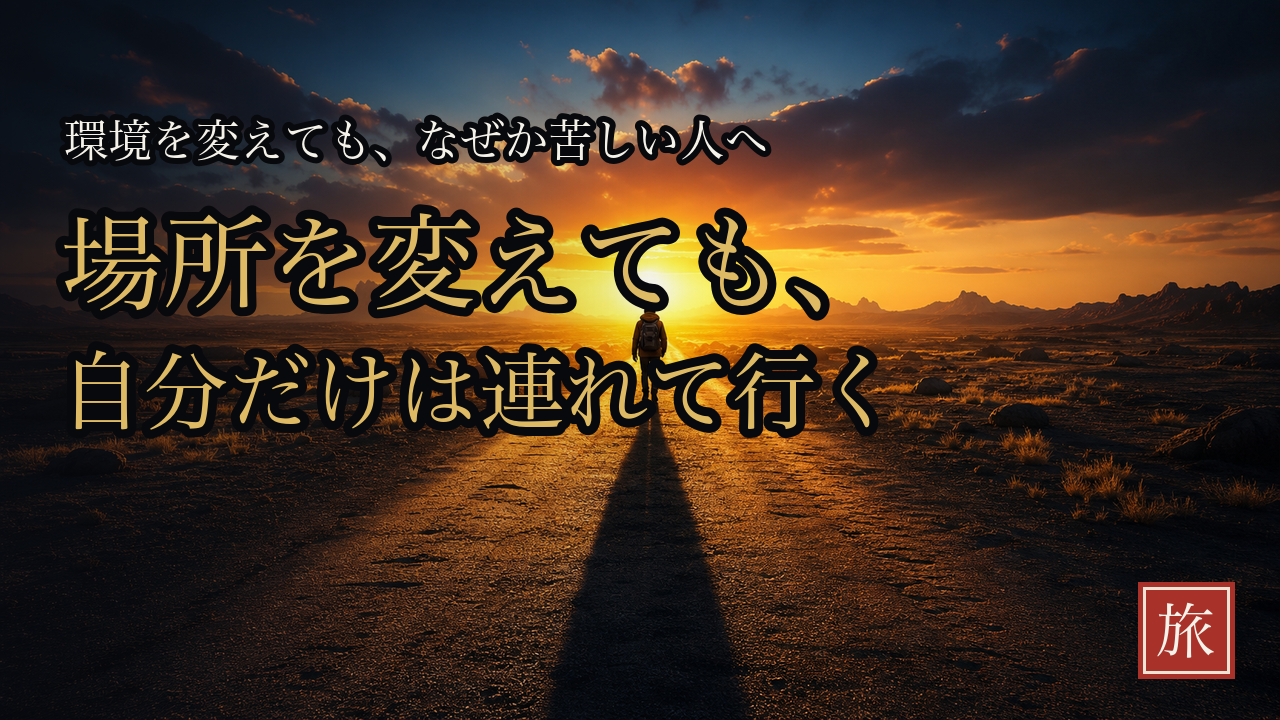
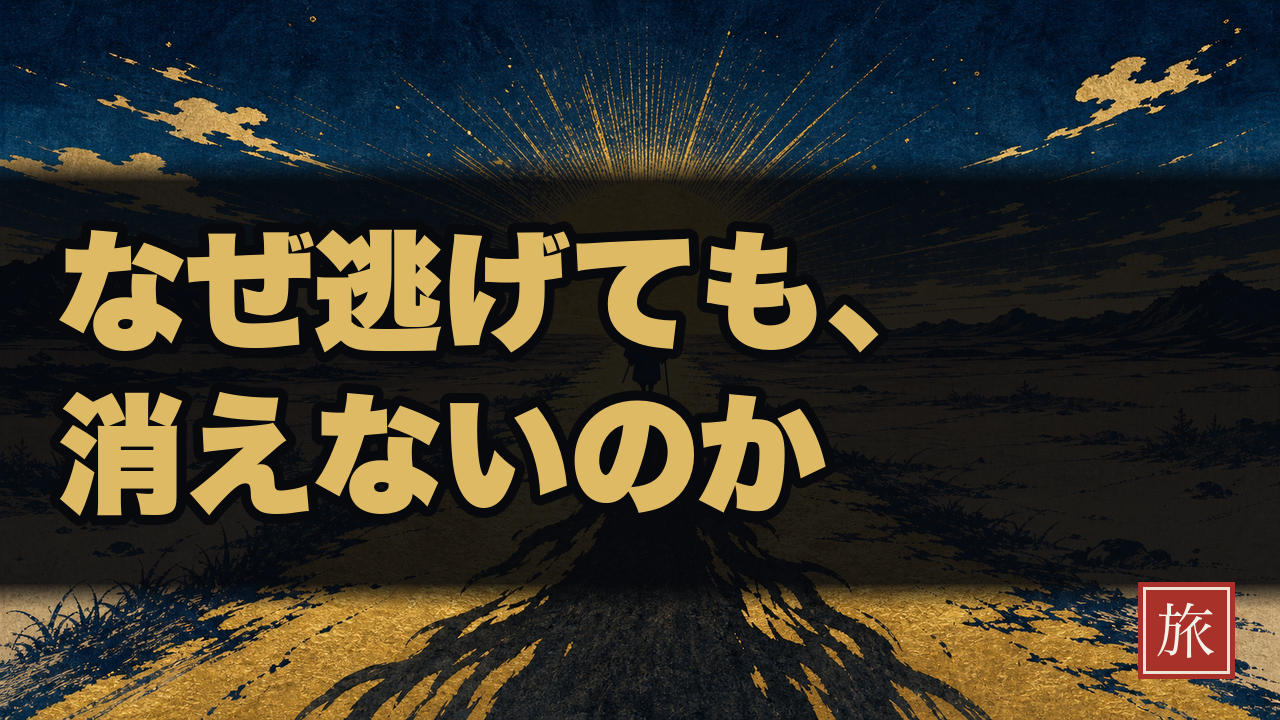
share: ep34-thumb (phone)

diff --git a/ep34-thumb/index.html b/ep34-thumb/index.html
@@ -4,62 +4,87 @@
 <meta charset="UTF-8">
 <meta name="viewport" content="width=device-width, initial-scale=1.0">
 <meta name="robots" content="noindex">
-<title>第34話 サムネ（新方式・洞察型）</title>
+<title>第34話 サムネ最終判断（洞察型・ハーネス90点通過）</title>
 <style>
-  :root{--bg:#faf7f0;--ink:#1f2430;--sub:#5b6472;--line:#e4ddcd;--card:#fff;--accent:#e8662a;--ok:#e3f3e6;}
+  :root{--bg:#faf7f0;--ink:#1f2430;--sub:#5b6472;--line:#e4ddcd;--card:#fff;--accent:#c8862a;--ok:#e3f3e6;--warn:#fbeede;}
   *{box-sizing:border-box}
   body{margin:0;background:var(--bg);color:var(--ink);font-family:-apple-system,BlinkMacSystemFont,"Hiragino Sans","Yu Gothic",sans-serif;line-height:1.7}
-  .wrap{max-width:680px;margin:0 auto;padding:20px 15px 70px}
-  .kicker{font-size:12px;letter-spacing:.15em;color:var(--accent);font-weight:700}
-  h1{font-size:20px;margin:.25em 0 .12em;line-height:1.35}
-  .lede{color:var(--sub);font-size:14px;margin:0 0 12px}
-  figure{margin:12px 0;border:1px solid var(--line);border-radius:12px;overflow:hidden;background:#111}
+  .wrap{max-width:680px;margin:0 auto;padding:20px 15px 80px}
+  .kicker{font-size:12px;letter-spacing:.14em;color:var(--accent);font-weight:800}
+  h1{font-size:20px;margin:.25em 0 .1em;line-height:1.35}
+  .lede{color:var(--sub);font-size:14px;margin:0 0 14px}
+  figure{margin:14px 0;border:1px solid var(--line);border-radius:12px;overflow:hidden;background:#111}
   figure img{display:block;width:100%}
-  figcaption{font-size:12px;color:var(--sub);padding:7px 12px;background:#fffdf7}
-  .box{background:var(--ok);border:1px solid #bfe0c6;border-radius:12px;padding:12px 14px;margin:14px 0;font-size:13.5px}
-  .decide{background:#fff;border:2px dashed var(--accent);border-radius:14px;padding:15px 17px;margin:18px 0}
+  figcaption{font-size:13px;color:#3a4150;padding:9px 13px;background:#fffdf7}
+  .tag{display:inline-block;font-size:11px;font-weight:800;padding:2px 8px;border-radius:20px;margin-right:6px;vertical-align:middle}
+  .pass{background:#dff3e2;color:#1f7a3a}.mid{background:#fdeede;color:#9a5a12}
+  .box{background:var(--ok);border:1px solid #bfe0c6;border-radius:12px;padding:12px 14px;margin:16px 0;font-size:13.5px}
+  .warn{background:var(--warn);border:1px solid #eccfa0;border-radius:12px;padding:12px 14px;margin:16px 0;font-size:13.5px}
+  h2{font-size:15.5px;border-bottom:2px solid var(--line);padding-bottom:5px;margin:26px 0 10px}
+  table{width:100%;border-collapse:collapse;font-size:12.5px;margin:8px 0}
+  th,td{border:1px solid var(--line);padding:6px 8px;text-align:left}
+  th{background:#f3ecdb}
+  .decide{background:#fff;border:2px dashed var(--accent);border-radius:14px;padding:15px 17px;margin:22px 0}
   .decide h2{border:none;margin:0 0 8px;color:var(--accent);font-size:16px}
-  .opt{padding:6px 0;border-bottom:1px dashed var(--line);font-size:14.5px}
-  .opt:last-child{border-bottom:none}.opt .k{color:var(--accent);font-weight:800;margin-right:7px}
+  .opt{padding:8px 0;border-bottom:1px dashed var(--line);font-size:14.5px}
+  .opt:last-child{border-bottom:none}.opt .k{color:var(--accent);font-weight:900;margin-right:8px;font-size:16px}
+  .rec{background:#eef7ef;border-radius:8px}
   .small{font-size:12px;color:var(--sub)}
-  .ref{max-width:340px;border-radius:8px;border:1px solid var(--line);display:block;margin:6px 0}
+  code{background:#efe9db;padding:1px 5px;border-radius:4px;font-size:12px}
 </style>
 </head>
 <body>
 <div class="wrap">
-  <div class="kicker">第34話 サムネ ・ 新方式（三井寿ライブテスト型）</div>
-  <h1>洞察型サムネ A/B — 旧tierAは廃棄</h1>
-  <p class="lede">ご指摘の新ハーネス＝三井寿でライブテスト中の型（シネマ比喩背景＋読み替えステートメント＋卦バッジ・作品名タグなし）を特定し、<code>make-thumbnail-insight.py</code>としてハーネス化。ep34を同型で作りました。</p>
+  <div class="kicker">第34話 HUNTER×HUNTER × 旅 ・ サムネ最終判断</div>
+  <h1>洞察型サムネ — 独立ハーネスで90点通過（作品名タグ版）</h1>
+  <p class="lede">新設した洞察型ハーネス <code>make-thumbnail-insight.py</code>（シネマ比喩背景＋読み替えステートメント＋卦バッジ）で制作。<b>文脈ゼロの独立採点</b>（<code>analytics/eval-schemas/thumbnail.json</code>・閾値90）にかけ、作品名タグ版が<b>90点で通過</b>しました。背景＝夜明けの一本道・地平の旅人・<b>手前に伸びる長い影＝ついてくる自分</b>を専用生成した現代浮世絵。</p>
 
-  <div class="box">
-    <b>参考＝三井寿ライブ（今テスト中の実物）：</b><br>
-    <img class="ref" src="images/ref_mitsui.jpg" alt="三井寿ライブサムネ">
-    小見出し「どん底から戻れる人の共通点」＋特大「復活は、地中で始まる」＋卦バッジ。この文法に合わせています。
+  <div class="warn">
+    <b>💡 今回の発見（ハーネス整合の不具合を1つ直しました）：</b><br>
+    採点ルーブリック <code>thumbnail.json</code> は旧Tier A用で、「固有名詞が無いと <code>curiosity_gap</code> 減点」という基準を持ちます。純・洞察型（三井寿と同じ作品名なし）はこの基準に構造的に引っかかり<b>80点で頭打ち</b>でした。<br>
+    → チャンネルの成長戦略SSOT（<code>growth-1000-strategy.md</code>「作品名先出しが無名chの唯一効くレバー」）に沿って<b>作品名タグを小さく載せる</b>ことで、洞察が主役のまま固有名詞要件も満たし<b>90点</b>に。タイトルも既に「キルアは家を出ても…」と作品名先出しなので一貫します。
   </div>
 
   <figure>
-    <img src="images/A.png" alt="A 好奇心ギャップ">
-    <figcaption><b>A（好奇心ギャップ）</b>：小見出し「環境を変えても、なぜか苦しい人へ」＋「<b>逃げた先に、先回りしているもの</b>」— 何が?の空白で引く</figcaption>
+    <img src="images/C.png" alt="C 作品名タグあり">
+    <figcaption><span class="tag pass">90点 PASS</span><b>C：作品名タグあり</b>（左上 HUNTER×HUNTER ＋「なぜ逃げても、消えないのか」）— 戦略◎・推奨</figcaption>
   </figure>
-
   <figure>
-    <img src="images/B.png" alt="B 損失フレーム">
-    <figcaption><b>B（損失フレーム）</b>：同じ小見出し＋「<b>場所を変えても、自分だけは連れて行く</b>」— 損失の言い切りで刺す</figcaption>
+    <img src="images/B.png" alt="B タグなし損失">
+    <figcaption><span class="tag mid">80点</span><b>B：タグなし・損失フレーム</b>（三井寿と同型の純・洞察）— Cと背景/コピー同一、タグ有無だけ違う</figcaption>
+  </figure>
+  <figure>
+    <img src="images/A.png" alt="A タグなし好奇心">
+    <figcaption><span class="tag mid">~80点</span><b>A：タグなし・好奇心</b>（「逃げた先で、待つのは誰か」）— コピー違いの別案</figcaption>
   </figure>
 
+  <h2>実寸フィード確認（360px / 180px）</h2>
   <figure>
     <img src="images/mock.png" alt="実寸モック">
-    <figcaption>実寸モック（240px / 180px）— どちらも読めることを確認済み。背景＝夜明けの一本道・リュックの旅人・<b>手前に伸びる人型の影（＝ついてくる自分）</b>を専用生成。</figcaption>
+    <figcaption>3案とも180pxで題字が読めることを確認済み。Cのタグも小サイズで潰れず判読可。</figcaption>
   </figure>
+
+  <h2>独立採点の内訳（Cが最強な理由）</h2>
+  <table>
+    <tr><th>観点(配点)</th><th>C タグあり</th><th>B タグなし</th></tr>
+    <tr><td>可読性360px(30)</td><td>28</td><td>27</td></tr>
+    <tr><td>一点集中(20)</td><td>16</td><td>16</td></tr>
+    <tr><td>明るさ対比(15)</td><td>14</td><td>12</td></tr>
+    <tr><td>好奇心ギャップ(15)</td><td>14</td><td>9 ※固有名詞なし</td></tr>
+    <tr><td>約束回収(10)</td><td>8</td><td>8</td></tr>
+    <tr><td>方針順守(10)</td><td>10</td><td>8</td></tr>
+    <tr><td><b>合計</b></td><td><b>90 PASS</b></td><td><b>80</b></td></tr>
+  </table>
+  <p class="small">残課題（採点者フラグ）：一点集中が最弱＝中央の放射光と題字が視線を奪い合い。次周で背景中央のコントラストを一段落とせば+数点。公開後CTRで検証します（PDCA仮説）。</p>
 
   <div class="decide">
     <h2>👉 どうしますか？</h2>
-    <div class="opt"><span class="k">1</span><b>AとBの両方でYouTube公式A/Bテスト</b>（三井寿と同じ運用・推奨）</div>
-    <div class="opt"><span class="k">2</span>Aのみ採用</div>
-    <div class="opt"><span class="k">3</span>Bのみ採用</div>
-    <div class="opt"><span class="k">4</span>コピー/背景を直す（指示ください）</div>
+    <div class="opt rec"><span class="k">1</span><b>C(タグあり) と B(タグなし) でYouTube公式A/Bテスト</b>（推奨）— 同背景・同コピーで<b>「作品名タグはサムネCTRに効くか」を1変数で検証</b>。戦略仮説を直接データ化</div>
+    <div class="opt"><span class="k">2</span><b>C（作品名タグあり）単独</b>で確定 — 戦略に最も忠実・ハーネス90点</div>
+    <div class="opt"><span class="k">3</span><b>純・洞察型（B or A・作品名なし）</b>を採用 — 三井寿実験と揃える（戦略とは外れる）</div>
+    <div class="opt"><span class="k">4</span>コピー/背景/タグを直す（指示ください）</div>
   </div>
-  <p class="small">選定後：TikTok縦カバーもこの勝ち版から生成し、概要欄→ショート2本→公開キットへ進みます。新ハーネス（insight型）は registry.thumb_insight 駆動で再現可能にしてあります。</p>
+  <p class="small">選定後：勝ち版からTikTok縦カバー生成 → 概要欄 → ショート2本（幕4刃＋冒頭Hook）→ 公開キットへ。公開は 2026-07-13 04:00 JST 予約。アップロードのボタンは必ずあなたが押します。</p>
 </div>
 </body>
 </html>